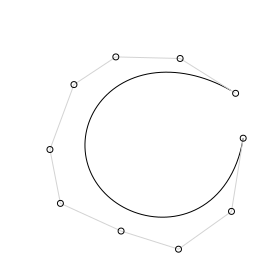
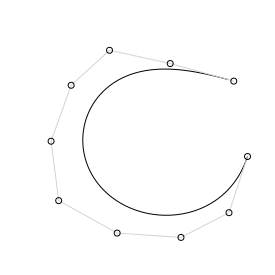
image regeneration and more path fixes

diff --git a/src/build/markdown/generate-graphics-module.js b/src/build/markdown/generate-graphics-module.js
@@ -7,6 +7,7 @@ import performCodeSurgery from "../../../docs/js/custom-element/lib/perform-code
 // Note that this location is relative to the temp dir, from which sketch modules get loaded.
 const thisModuleURL = new URL(import.meta.url);
 const thisModuleDir = path.dirname(thisModuleURL.href.replace(`file:///`, ``));
+
 const GRAPHICS_API_LOCATION = path
   .join(
     path.relative(thisModuleDir, paths.public),
@@ -18,13 +19,18 @@ const GRAPHICS_API_LOCATION = path
   .split(path.sep)
   .join(path.posix.sep);
 
+const RELATIVE_IMPORT_LOCATION = path
+  .relative(thisModuleDir, paths.chapters)
+  .split(path.sep)
+  .join(path.posix.sep);
+
 /**
  * ...docs go here...
  */
 function generateGraphicsModule(chapter, code, width, height) {
   // step 1: fix the imports
   code = code.replace(/(import .+? from) "([^"]+)"/g, (_, main, group) => {
-    return `${main} "../../../chapters/${chapter}/${group}"`;
+    return `${main} "${RELATIVE_IMPORT_LOCATION}/${chapter}/${group}"`;
   });
 
   // step 2: split up the code into "global" vs. "class" code

diff --git a/docs/index.html b/docs/index.html
@@ -987,8 +987,8 @@ function Bezier(3,t):
             an <i>n<sup>th</sup></i> order curve, w<sub>0</sub> is our start
             coordinate, w<sub>n</sub> is our last coordinate, and everything in
             between is a controlling coordinate. Say we want a cubic curve that
-            starts at (120,160), is controlled by (35,200) and (220,260) and
-            ends at (220,40), we use this Bézier curve:
+            starts at (110,150), is controlled by (25,190) and (210,250) and
+            ends at (210,30), we use this Bézier curve:
           </p>
           <img
             class="LaTeX SVG"

diff --git a/src/build/markdown/generate-fallback-image.js b/src/build/markdown/generate-fallback-image.js
@@ -34,8 +34,8 @@ async function generateFallbackImage(chapter, localeStrings, src, w, h) {
 
   if (locale !== localeStrings.getDefaultLocale()) return hash;
 
-  const destPath = path.join(paths.images, src);
-  fs.ensureDir(destPath);
+  const destPath = path.dirname(path.join(paths.images, src));
+  fs.ensureDirSync(destPath);
 
   const filePath = path.join(destPath, `${hash}.png`);
   if (fs.existsSync(filePath)) return hash;

diff --git a/src/build/latex/latex-to-svg.js b/src/build/latex/latex-to-svg.js
@@ -23,7 +23,7 @@ export default async function latexToSVG(latex, chapter, localeStrings, block) {
 
   const TeXfilename = path.join(paths.temp, `${hash}.tex`);
   const chapterDir = path.join(paths.images, `chapters`, chapter);
-  fs.ensureDir(chapterDir);
+  fs.ensureDirSync(chapterDir);
 
   const SVGfilename = path.join(chapterDir, `${hash}.svg`);
   const srcURL = `./images/chapters/${chapter}/${hash}.svg`;

diff --git a/src/build/create-index-page.js b/src/build/create-index-page.js
@@ -75,7 +75,7 @@ async function createIndexPages(locale, localeStrings, chapters) {
     fs.writeFileSync(path.join(paths.public, `index.html`), data, `utf8`);
   } else {
     let localeDir = path.join(paths.public, locale);
-    fs.ensureDir(localeDir);
+    fs.ensureDirSync(localeDir);
     fs.writeFileSync(path.join(localeDir, `index.html`), data, `utf8`);
   }
 }

diff --git a/src/project-paths.js b/src/project-paths.js
@@ -28,6 +28,6 @@ const paths = {
   temp,
 };
 
-Object.values(paths).forEach((loc) => fs.ensureDir(loc));
+Object.values(paths).forEach((loc) => fs.ensureDirSync(loc));
 
 export default paths;

diff --git a/docs/chapters/control/content.en-GB.md b/docs/chapters/control/content.en-GB.md
@@ -23,7 +23,7 @@ If we want to change the curve, we need to change the weights of each point, eff
                 \underset{weight}{\underbrace{w_i}}
 \]
 
-That looks complicated, but as it so happens, the "weights" are actually just the coordinate values we want our curve to have: for an <i>n<sup>th</sup></i> order curve, w<sub>0</sub> is our start coordinate, w<sub>n</sub> is our last coordinate, and everything in between is a controlling coordinate. Say we want a cubic curve that starts at (120,160), is controlled by (35,200) and (220,260) and ends at (220,40), we use this Bézier curve:
+That looks complicated, but as it so happens, the "weights" are actually just the coordinate values we want our curve to have: for an <i>n<sup>th</sup></i> order curve, w<sub>0</sub> is our start coordinate, w<sub>n</sub> is our last coordinate, and everything in between is a controlling coordinate. Say we want a cubic curve that starts at (110,150), is controlled by (25,190) and (210,250) and ends at (210,30), we use this Bézier curve:
 
 \[
 \left \{ \begin{matrix}
